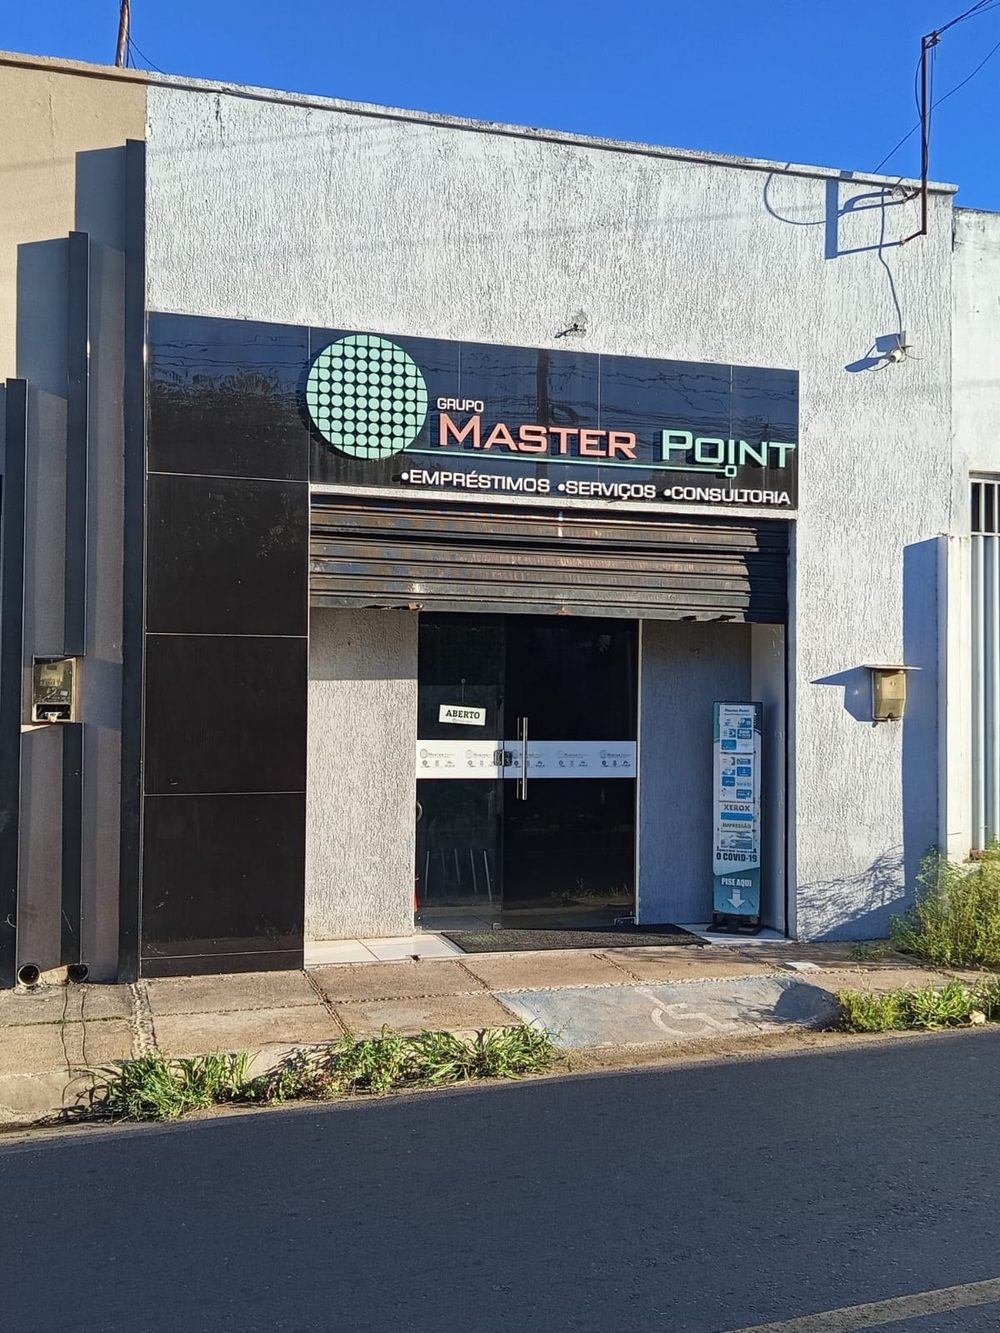
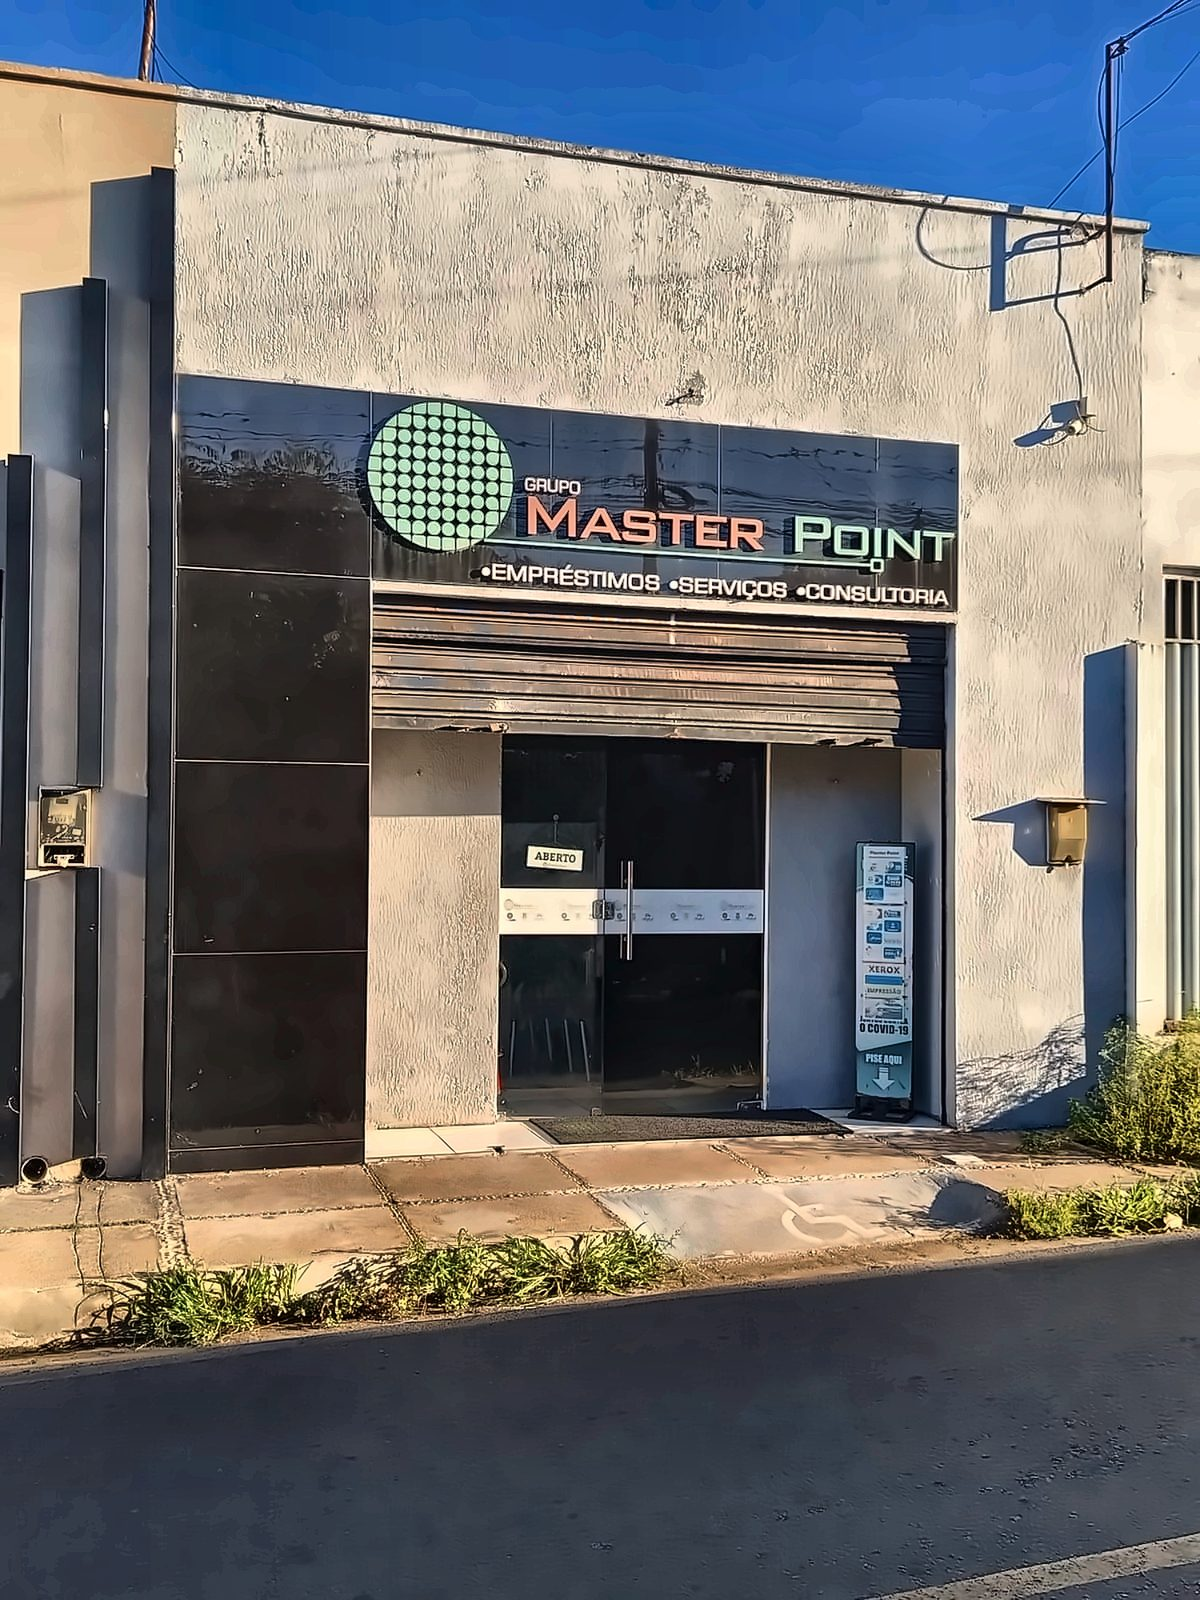
Master Point: fotos HD + formandos certificados na prova
- Troca hero/story/fachada pelas versoes HD otimizadas (9426/9427/9424)
- Secao de prova com alunos formados segurando certificado (9432/9434) + turma
- Imagens otimizadas para web (~130-345KB, nitidez mantida)

diff --git a/master-point-cursos/index.html b/master-point-cursos/index.html
@@ -155,17 +155,17 @@
   .proof-list .ck{width:30px;height:30px;border-radius:8px;background:rgba(22,160,133,.22);color:#5fe3c2;display:flex;align-items:center;justify-content:center;flex:none;font-weight:800}
   .proof-list b{color:#fff;font-family:'Plus Jakarta Sans',sans-serif}
 
-  /* DEPOIMENTOS placeholder */
-  .depo-grid{display:grid;grid-template-columns:repeat(3,1fr);gap:20px;margin-top:8px}
-  @media(max-width:860px){.depo-grid{grid-template-columns:1fr}}
-  .depo-card{background:var(--bg-soft);border:1px dashed var(--line);border-radius:var(--radius);padding:26px 24px}
-  .depo-card .stars{color:var(--gold);font-size:16px;margin-bottom:12px;letter-spacing:2px}
-  .depo-card p{font-size:16px;color:var(--slate);font-style:italic;margin-bottom:16px}
-  .depo-card .who2{display:flex;align-items:center;gap:12px}
-  .depo-card .av{width:42px;height:42px;border-radius:50%;background:var(--teal-soft);display:flex;align-items:center;justify-content:center;color:var(--teal-dark);font-weight:800;flex:none}
-  .depo-card .who2 b{font-family:'Plus Jakarta Sans',sans-serif;font-size:15px;display:block}
-  .depo-card .who2 span{font-size:13px;color:var(--slate)}
-  .depo-soon{font-size:12.5px;color:#9aa7a3;text-align:center;margin-top:22px}
+  /* FORMANDOS / PROVA REAL */
+  .depo-grid{display:grid;grid-template-columns:repeat(3,1fr);gap:22px;margin-top:8px}
+  @media(max-width:860px){.depo-grid{grid-template-columns:1fr;max-width:420px;margin:8px auto 0}}
+  .depo-card{background:#fff;border:1px solid var(--line);border-radius:var(--radius);overflow:hidden;box-shadow:var(--shadow);display:flex;flex-direction:column}
+  .depo-card .photo{width:100%;aspect-ratio:3/4;overflow:hidden;background:var(--bg-soft)}
+  .depo-card .photo img{width:100%;height:100%;object-fit:cover}
+  .depo-card .cap{padding:18px 20px}
+  .depo-card .cap .badge{display:inline-flex;align-items:center;gap:7px;background:var(--teal-soft);color:var(--teal-dark);font-weight:700;font-size:12.5px;padding:6px 12px;border-radius:999px;margin-bottom:10px}
+  .depo-card .cap b{font-family:'Plus Jakarta Sans',sans-serif;font-size:15.5px;display:block;color:var(--ink);margin-bottom:3px}
+  .depo-card .cap span{font-size:13.5px;color:var(--slate)}
+  .depo-soon{font-size:13px;color:#7a8884;text-align:center;margin-top:24px}
 
   /* FAQ */
   .faq-wrap{max-width:760px;margin:0 auto}
@@ -389,32 +389,47 @@
   </div>
 </section>
 
-<!-- DEPOIMENTOS (placeholder) -->
+<!-- FORMANDOS / PROVA REAL -->
 <section class="depo">
   <div class="wrap">
     <div class="sec-head">
-      <span class="eyebrow">Quem passou por aqui</span>
-      <h2>Histórias de quem deu o primeiro passo.</h2>
-      <p class="lead">Em breve, as histórias reais de alunos de Castelo que se qualificaram e conseguiram emprego.</p>
+      <span class="eyebrow">Prova real</span>
+      <h2>Alunos formados e certificados pela Master Point.</h2>
+      <p class="lead">Gente de Castelo do Piauí que começou aqui, concluiu a trilha e saiu com o certificado na mão.</p>
     </div>
     <div class="depo-grid">
       <div class="depo-card">
-        <div class="stars">★★★★★</div>
-        <p>"Espaço reservado para o depoimento de um aluno da Master Point."</p>
-        <div class="who2"><span class="av">A</span><span><b>Aluno Master Point</b><span>Castelo do Piauí</span></span></div>
+        <div class="photo">
+          <img src="images/formando-1.jpg" alt="Aluno formado segurando o certificado de conclusão da Master Point em Castelo do Piauí" loading="lazy" width="825" height="1100">
+        </div>
+        <div class="cap">
+          <span class="badge">🎓 Certificado</span>
+          <b>Aluno certificado</b>
+          <span>Master Point · Castelo do Piauí</span>
+        </div>
       </div>
       <div class="depo-card">
-        <div class="stars">★★★★★</div>
-        <p>"Espaço reservado para o depoimento de um aluno da Master Point."</p>
-        <div class="who2"><span class="av">A</span><span><b>Aluno Master Point</b><span>Castelo do Piauí</span></span></div>
+        <div class="photo">
+          <img src="images/formando-2.jpg" alt="Aluna formada segurando o certificado de conclusão da Master Point em Castelo do Piauí" loading="lazy" width="825" height="1100">
+        </div>
+        <div class="cap">
+          <span class="badge">🎓 Certificado</span>
+          <b>Aluna certificada</b>
+          <span>Master Point · Castelo do Piauí</span>
+        </div>
       </div>
       <div class="depo-card">
-        <div class="stars">★★★★★</div>
-        <p>"Espaço reservado para o depoimento de um aluno da Master Point."</p>
-        <div class="who2"><span class="av">A</span><span><b>Aluno Master Point</b><span>Castelo do Piauí</span></span></div>
+        <div class="photo">
+          <img src="images/turma-3.jpg" alt="Turma da Master Point em aula de informática em Castelo do Piauí" loading="lazy" width="825" height="1100">
+        </div>
+        <div class="cap">
+          <span class="badge">🎓 Turma</span>
+          <b>Turma em formação</b>
+          <span>Master Point · Castelo do Piauí</span>
+        </div>
       </div>
     </div>
-    <p class="depo-soon">Os depoimentos reais (texto, print ou vídeo) entram aqui assim que forem confirmados.</p>
+    <p class="depo-soon">Fotos reais de alunos formados e da estrutura da Master Point em Castelo do Piauí.</p>
   </div>
 </section>
 
